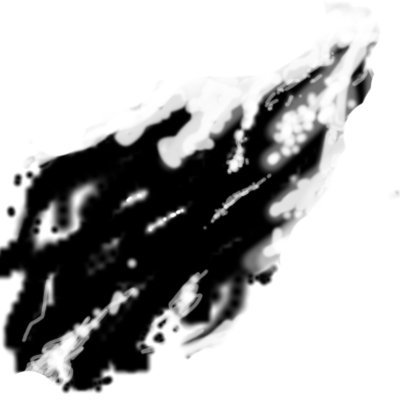
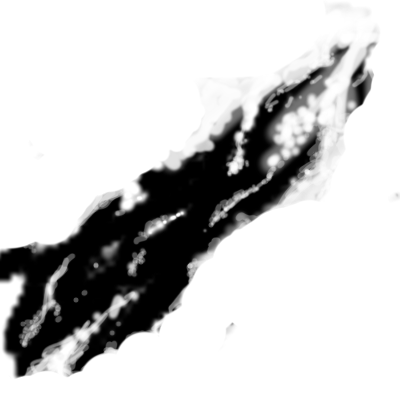
отбрасывание++

Changed region(s): [[0.0, 0.15, 0.84, 0.99], [0.87, 0.15, 0.93, 0.3]]

diff --git a/code/graphics.py b/code/graphics.py
@@ -29,6 +29,7 @@ class DamageWaves(pygame.sprite.Sprite):
         self.direction_y = direction_y
 
         self.image = pygame.transform.flip(load_image('effects\damage_waves_1.png'), direction_x, direction_y)
+        self.image = pygame.transform.scale(self.image, (300, 300))
         self.rect = self.image.get_rect()
 
         x = main_character.rect.x + main_character.rect.w // 2 - self.rect.w * ((direction_x + 1) % 2)
@@ -39,10 +40,10 @@ class DamageWaves(pygame.sprite.Sprite):
 
     def update(self):
         if main_character.resist_count:
-            if main_character.resist_count > 40:
+            if main_character.resist_count > 25:
                 self.rect.x += 2400 / fps if self.direction_x else -2400 / fps
                 self.rect.y -= 2400 / fps if self.direction_y else -2400 / fps
-                self.image.set_alpha(130 - main_character.resist_count, False)
+                self.image.set_alpha(80 - main_character.resist_count, False)
 
 
 
@@ -272,12 +273,12 @@ class Knight(Character):
         if self.resist:
             self.resist_count += 1
 
-            if self.resist_count == 120:
+            if self.resist_count == 100:
                 self.resist = False
                 self.resist_count = 0
-            if self.resist_count == 40:
+            if self.resist_count == 25:
                 self.stop_screen = False
-            if 60 > self.resist_count > 40:
+            if 50 > self.resist_count > 25:
                 self.rect.y -= 800 / fps
                 self.rect.x -= (300 / fps) * self.drop_direction
 
